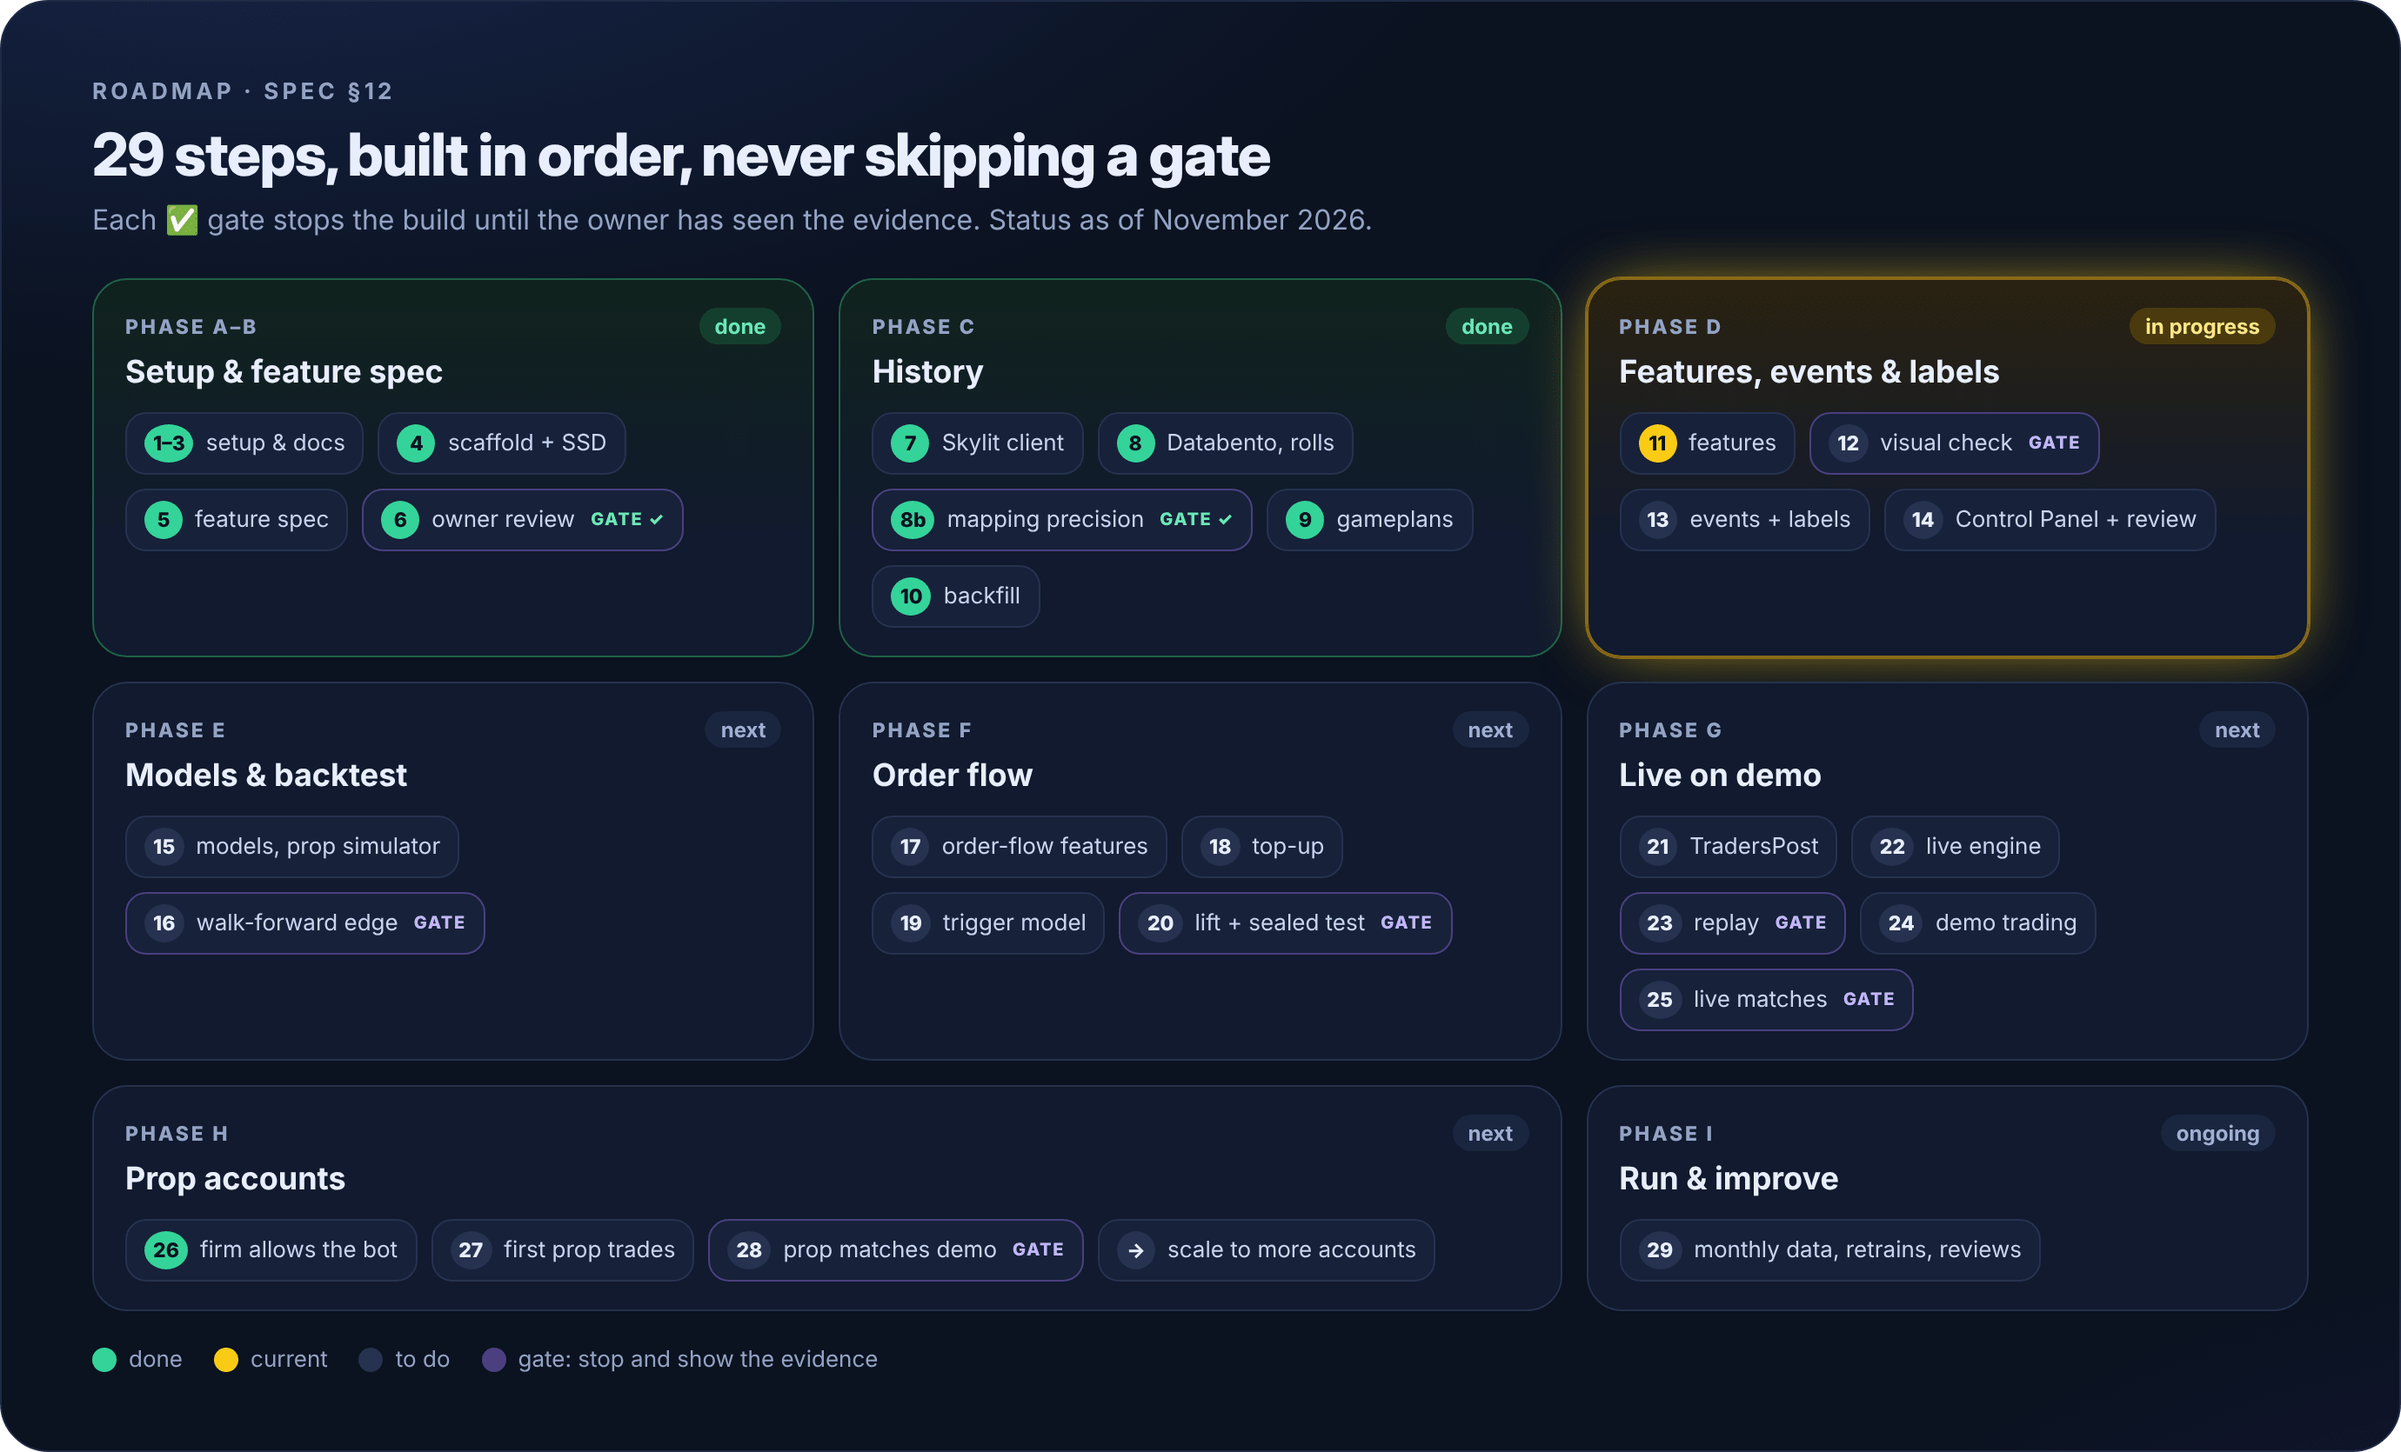
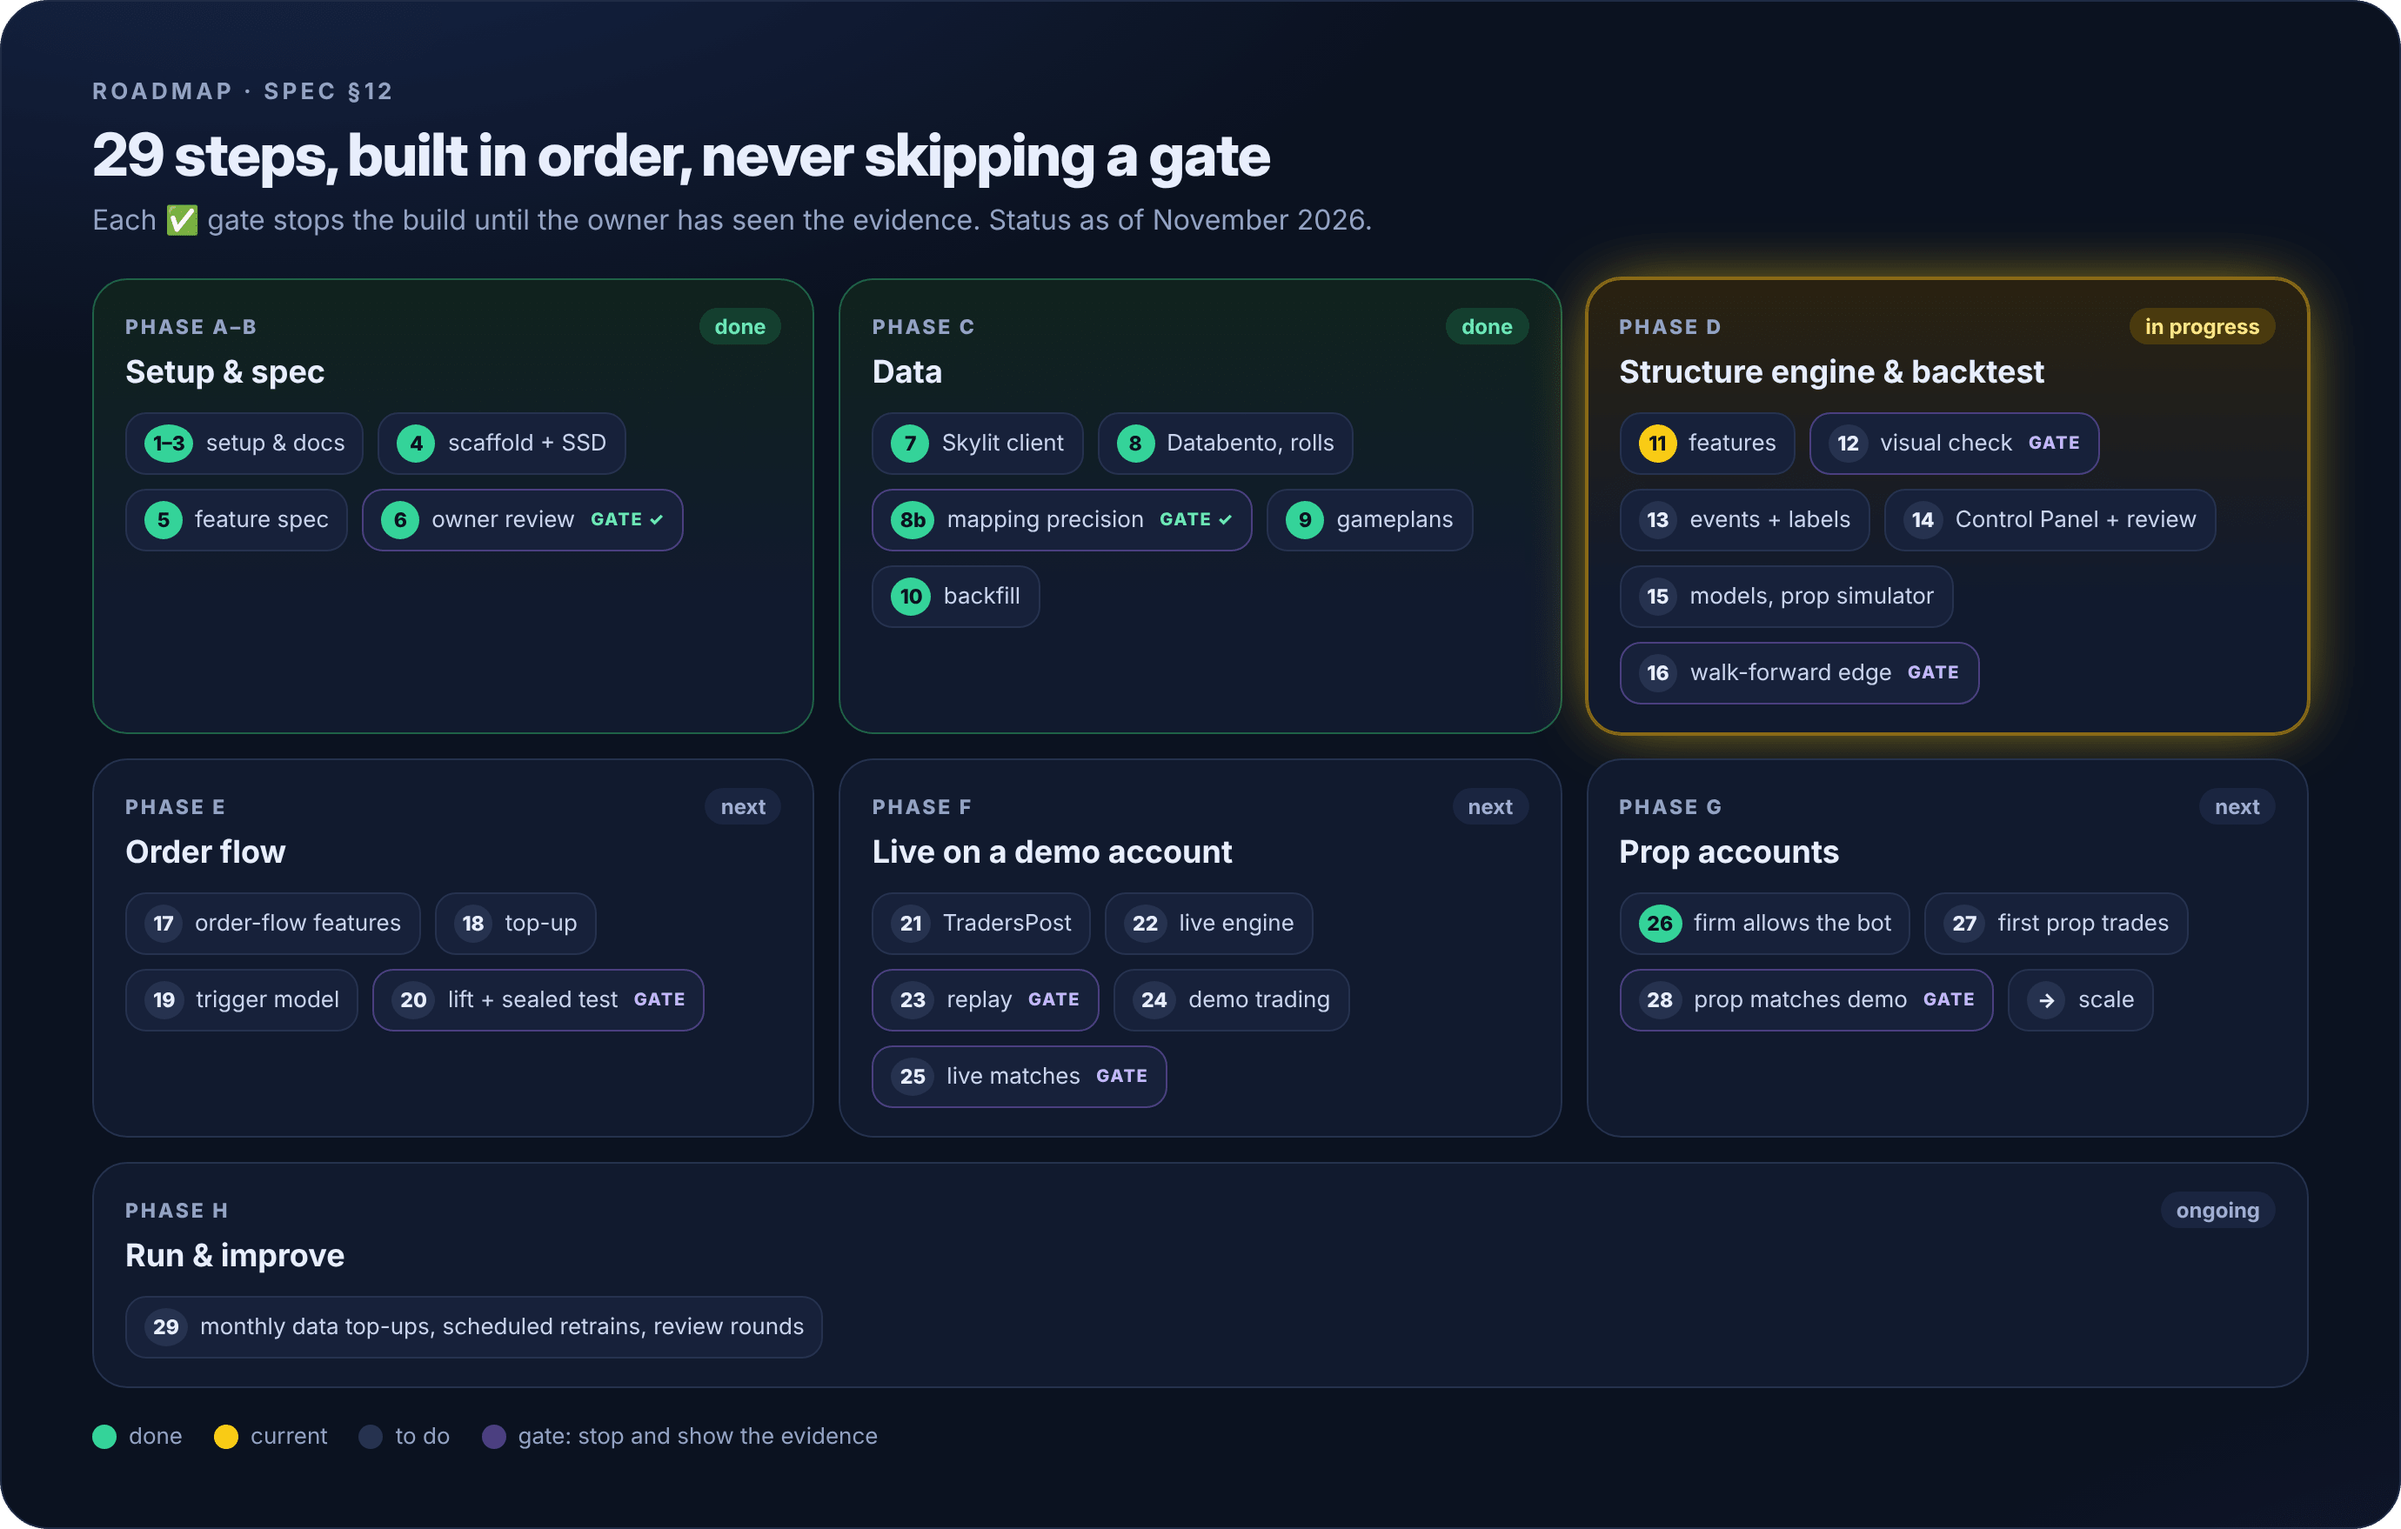
README: corrected roadmap, architecture and ledger images; roadmap alt text matches SPEC phases A-H
Docs only. The owner's new images use SPEC §12's phases A-H, "trend vs
range" for the day type, and gate criteria fixed in SPEC §12; the README's
roadmap alt text and the phase note that described the old picture are
updated.

diff --git a/README.md b/README.md
@@ -114,9 +114,7 @@ Entry styles: **(a)** absorption, **(b)** another order-flow trigger, **(c)** a 
 
 ## Roadmap and status
 
-<img src="docs/readme/roadmap.png" alt="Roadmap: 29 steps grouped by theme, with their gates" width="100%">
-
-The picture groups the steps by theme; the official phases are A–H in SPEC §12.
+<img src="docs/readme/roadmap.png" alt="Roadmap: 29 steps in SPEC phases A–H, with their gates" width="100%">
 
 **Now:** step 11 (features) is built and its full 12-month feature build (`feature_build`, about 10 hours) is running on the build PC. Next is the step-12 visual check of the chart levels against Deepcharts (a ✅ gate). The live status is always in [`CLAUDE.md`](CLAUDE.md) → *Status*.
 
